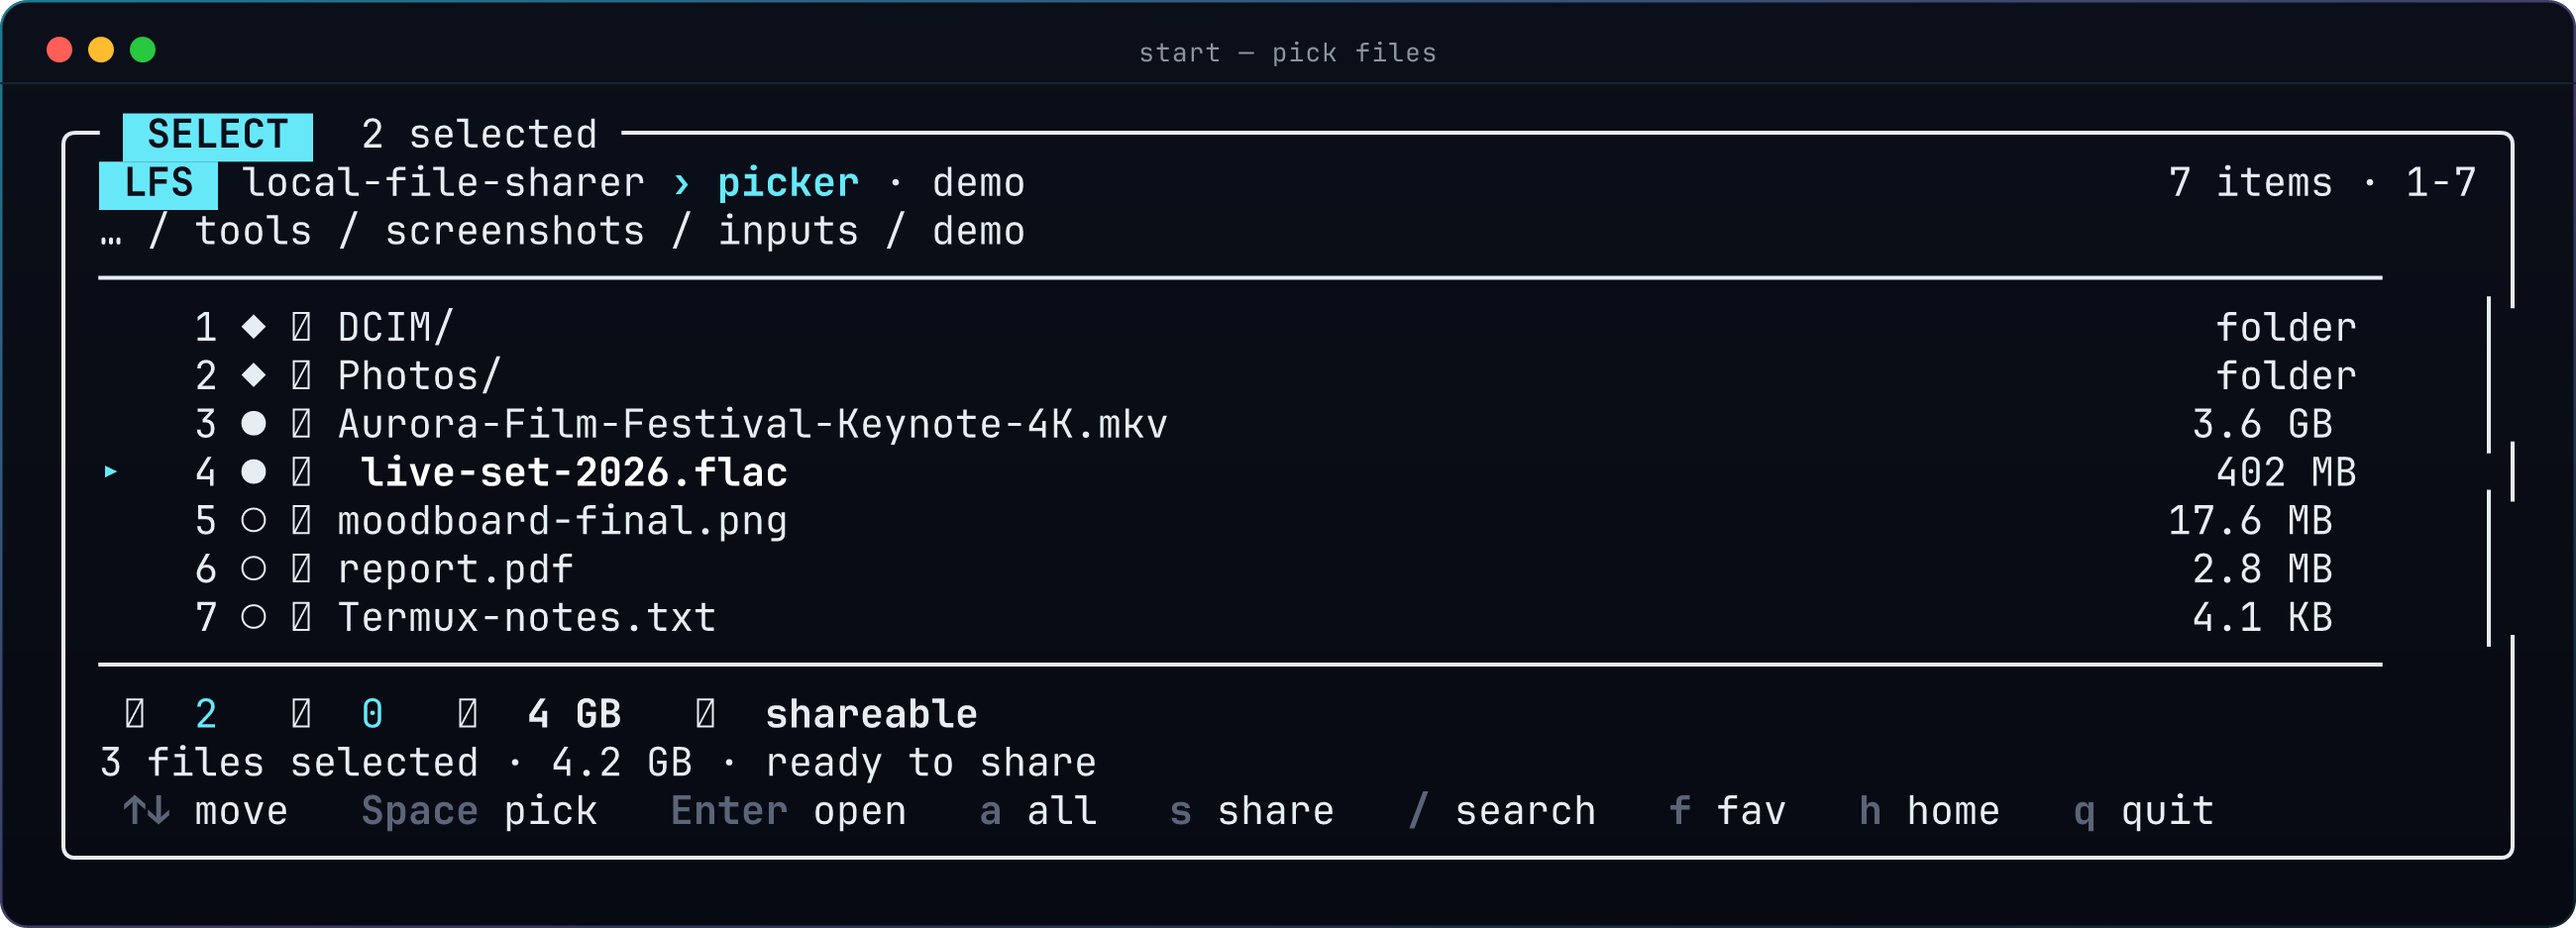
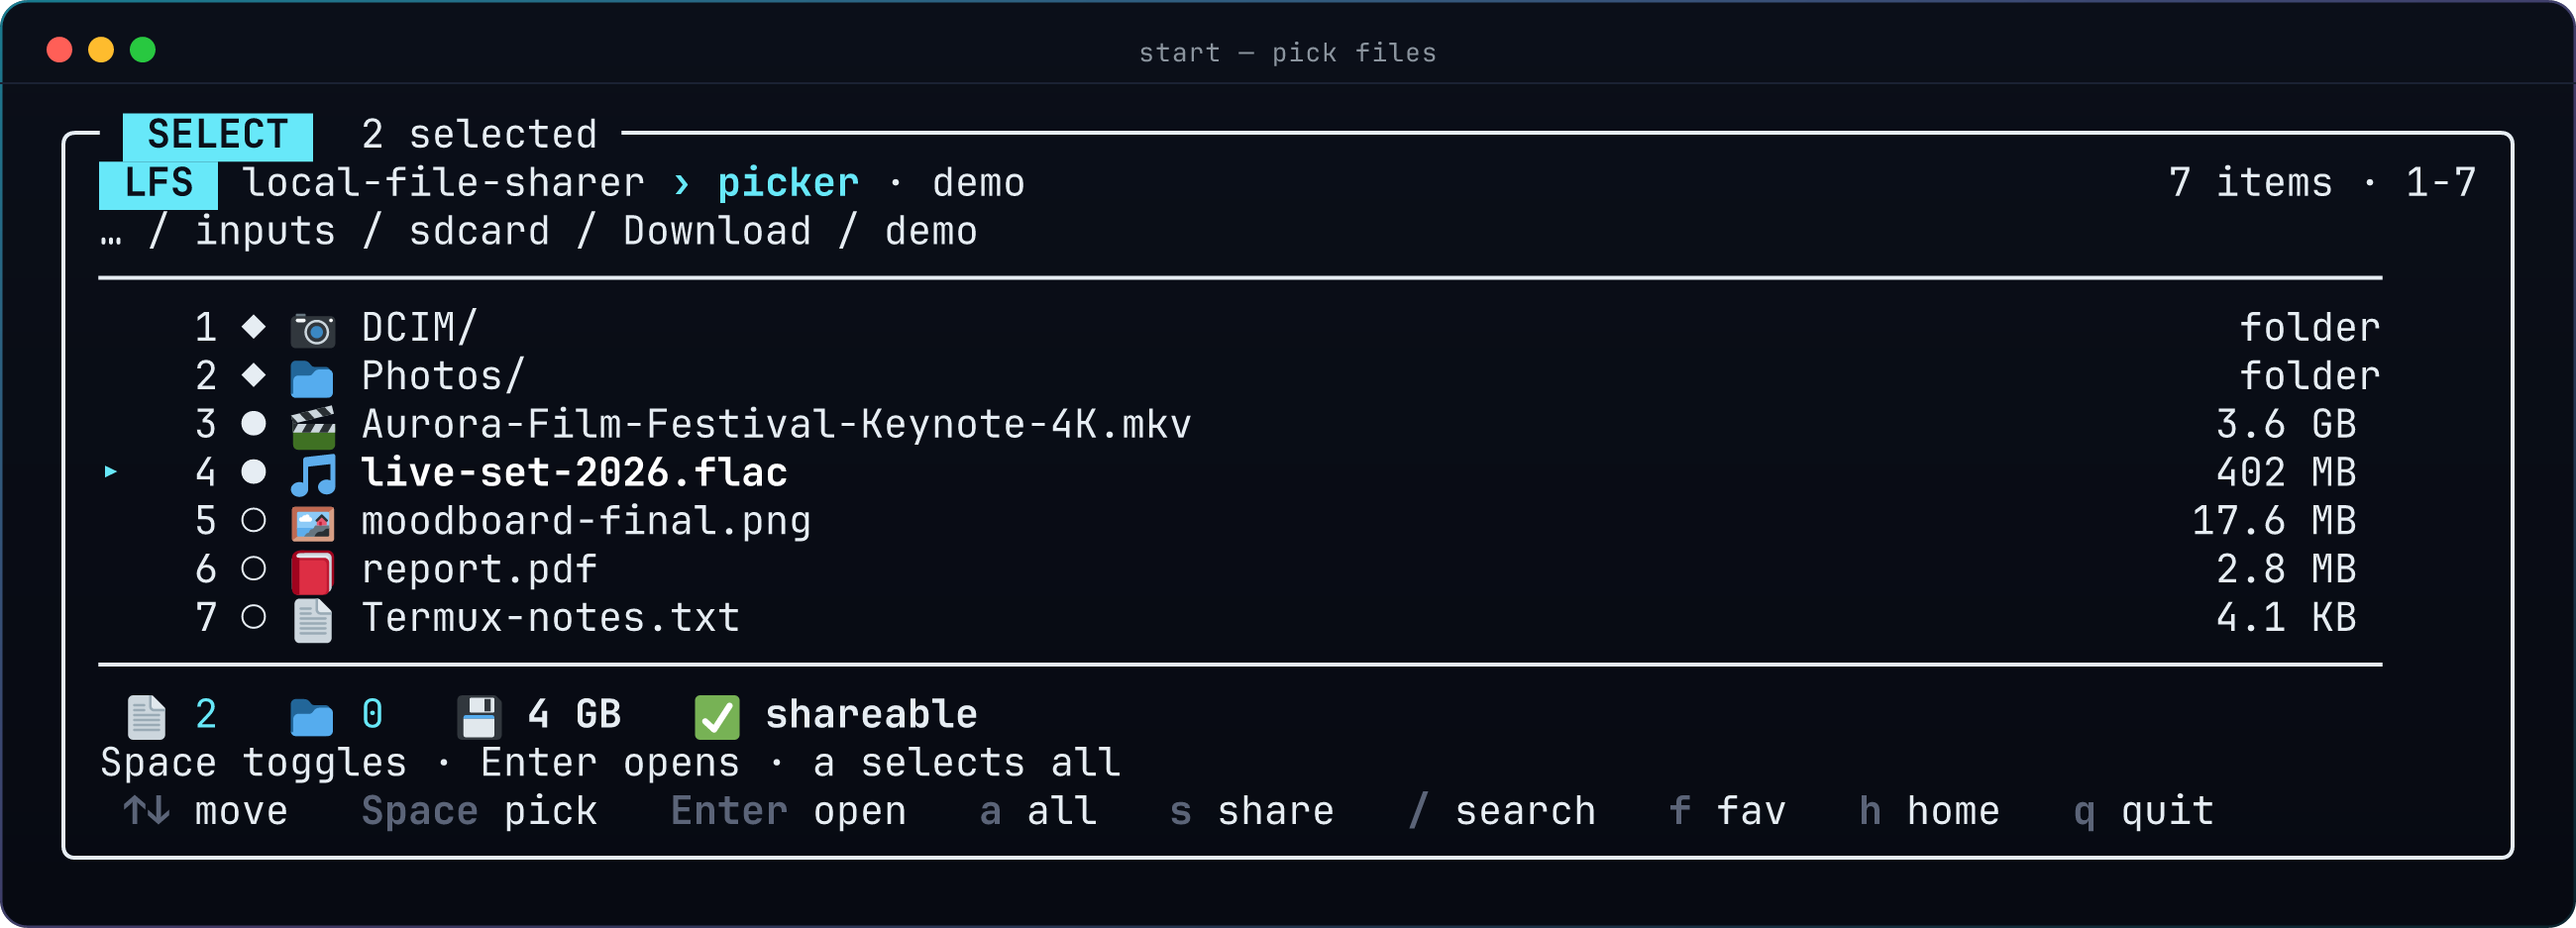
fix(docs): every screenshot shipped with tofu emoji, and the picker leaked a sandbox path
Found by looking at the committed PNGs instead of the code:

- Twemoji inputs were one directory too deep (inputs/twemoji/svg/*.svg), so
  _twemoji() returned None for every glyph and to_svg fell back to a box.
  Icons in the menu, picker, dashboard and banner were all boxes.
- termsvg now warns to stderr when a glyph has no SVG, so this cannot be
  silent again; tools/screenshots/check_assets.py is the CI gate.
- the picker breadcrumb read '… / tools / screenshots / inputs / demo' — the
  demo tree now lives under inputs/sdcard/Download/demo (sparse files, 4 KB on
  disk) so it reads like a phone.
- the picker's hand-written message said '3 files selected' while the live
  summary said 2; it now carries a real key hint instead of a fake total.

tests/test_screenshots.py locks both: warn-once-per-glyph, and to_svg's cols
padding (uneven GIF frames were the other silent corruption).

diff --git a/tools/screenshots/check_assets.py b/tools/screenshots/check_assets.py
@@ -1,0 +1,111 @@
+#!/usr/bin/env python3
+"""Fail if a screenshot would ship with tofu boxes or a leaking path.
+
+Run after regenerating the PNGs (CI does). It reads *the committed images*, not
+the renderer's intentions, which is the only way to catch a silently missing
+Twemoji tree: `to_svg` happily emits a fallback glyph instead of raising.
+"""
+
+from __future__ import annotations
+
+import re
+import subprocess
+import sys
+from pathlib import Path
+
+REPO = Path(__file__).resolve().parents[2]
+ASSETS = REPO / "docs" / "assets"
+README = REPO / "README.md"
+
+#: A path component that must never appear in a screenshot.
+FORBIDDEN = ("/home/", "C:\\Users", "scratch", "inputs/sdcard")
+
+
+def referenced_images() -> dict[str, bool]:
+    """README image links as ``{name: exists}``."""
+    text = README.read_text(encoding="utf-8")
+    # The README uses HTML <img> tags for width control; accept Markdown too.
+    refs = re.findall(r"<img[^>]*\ssrc=[\"'](?:\./)?docs/assets/([^\"'\s]+)", text)
+    refs += re.findall(r"!\[[^\]]*\]\((?!https?:)(?:\./)?docs/assets/([^)\s]+)", text)
+    return {name: (ASSETS / name).exists() for name in dict.fromkeys(refs)}
+
+
+def image_problems() -> list[str]:
+    problems: list[str] = []
+    for name, exists in referenced_images().items():
+        if not exists:
+            problems.append(f"README references docs/assets/{name}, which does not exist")
+    for path in sorted(ASSETS.glob("*.png")):
+        if path.stat().st_size < 1000:
+            problems.append(f"{path.name} is suspiciously small ({path.stat().st_size} bytes)")
+    return problems
+
+
+def png_text() -> str:
+    """All text that a PNG asset could have baked into it.
+
+    PNGs here are rendered from SVG, so the strings live in the image, not in a
+    sidecar file — this only checks the file names and the README instead.
+    """
+    return "\n".join(path.name for path in ASSETS.iterdir())
+
+
+def git_tracked_assets() -> list[str]:
+    try:
+        out = subprocess.run(
+            ["git", "ls-files", "docs/assets"],
+            cwd=REPO,
+            capture_output=True,
+            text=True,
+            check=False,
+        ).stdout
+    except OSError:  # pragma: no cover - git is optional
+        return []
+    return [line for line in out.splitlines() if line]
+
+
+def uncovered_emoji() -> list[str]:
+    """Emoji used by the terminal shots that Twemoji cannot draw.
+
+    This is the cheap version of looking at the PNG: the renderer substitutes a
+    fallback glyph and says nothing, so the only way to notice is to ask the
+    same lookup the renderer asks.
+    """
+    for extra in (REPO / "src", REPO / "tools" / "screenshots"):
+        if str(extra) not in sys.path:
+            sys.path.insert(0, str(extra))
+    import termsvg  # noqa: PLC0415 - optional maintainer tool
+
+    from local_file_sharer.menu import ACTIONS  # noqa: PLC0415
+
+    glyphs: set[str] = {"\U0001f4bb", "\U0001f4f1", "\U0001f680", "\u2705", "\u26a0"}
+    for action in ACTIONS:
+        glyphs.update(ch for ch in str(getattr(action, "icon", "")) if ord(ch) > 0x2000)
+
+    return sorted(ch for ch in glyphs if termsvg._twemoji(ch) is None)
+
+
+def main() -> int:
+    problems = image_problems()
+    for needle in FORBIDDEN:
+        if needle in png_text():
+            problems.append(f"a docs/assets file name contains {needle!r}")
+    untracked = set(referenced_images()) - {Path(p).name for p in git_tracked_assets()}
+    if git_tracked_assets():
+        for name in sorted(untracked):
+            problems.append(f"docs/assets/{name} is referenced but not committed")
+
+    for glyph in uncovered_emoji():
+        problems.append(f"no Twemoji SVG for {glyph!r} — it would render as tofu")
+
+    for problem in problems:
+        print(f"✖ {problem}")
+    if problems:
+        return 1
+    count = len(referenced_images())
+    print(f"✓ {count} README images all present and committed")
+    return 0
+
+
+if __name__ == "__main__":
+    sys.exit(main())

diff --git a/tests/test_screenshots.py b/tests/test_screenshots.py
@@ -1,0 +1,98 @@
+"""Guards for the screenshot renderer's two silent-failure modes.
+
+Both were found by looking at the committed PNGs rather than at the code, so
+they get tests. The renderer is a maintainer tool, not part of the package —
+these tests skip cleanly if ``tools/screenshots`` is absent.
+"""
+
+from __future__ import annotations
+
+import importlib.util
+import sys
+from pathlib import Path
+
+import pytest
+
+REPO = Path(__file__).resolve().parents[1]
+TOOLS = REPO / "tools" / "screenshots"
+
+pytest.importorskip("rich")
+
+if not (TOOLS / "termsvg.py").exists():  # pragma: no cover - tool is optional
+    pytest.skip("screenshot toolchain not present", allow_module_level=True)
+
+
+def _load(name: str):
+    """Import a tool module without putting ``tools/screenshots`` on sys.path."""
+    if str(TOOLS) not in sys.path:
+        sys.path.insert(0, str(TOOLS))
+    spec = importlib.util.spec_from_file_location(f"_shots_{name}", TOOLS / f"{name}.py")
+    module = importlib.util.module_from_spec(spec)
+    # dataclasses look the module up in sys.modules while decorating, so register
+    # it before executing or the @dataclass in termsvg.py blows up.
+    sys.modules[spec.name] = module
+    spec.loader.exec_module(module)
+    return module
+
+
+termsvg = _load("termsvg")
+
+
+def test_missing_twemoji_is_reported_not_swallowed(monkeypatch, tmp_path, capsys):
+    """An emoji with no SVG must warn once, or shots silently grow tofu boxes."""
+    monkeypatch.setattr(termsvg, "TWEMOJI", tmp_path)
+    monkeypatch.setattr(termsvg, "_MISSING_EMOJI", set())
+
+    assert termsvg._twemoji("🤖") is None
+    assert termsvg._twemoji("🤖") is None
+
+    err = capsys.readouterr().err
+    assert err.count("no Twemoji SVG") == 1, "warn once per glyph, not once per row"
+    assert "🤖" in err or "1f916" in err
+
+
+def test_twemoji_is_found_when_the_directory_is_right(monkeypatch):
+    """The happy path: a real lookup must return markup, not None."""
+    twemoji = Path(termsvg.TWEMOJI)
+    if not (twemoji / "1f916.svg").exists():
+        pytest.skip("Twemoji inputs are not installed (LFS_SHOT_INPUTS)")
+
+    markup = termsvg._twemoji("🤖")
+    assert markup is not None
+    assert "svg" not in markup.split()[0] if markup.split() else True
+    assert "<path" in markup or "<g" in markup
+
+
+def test_twemoji_ignores_ascii():
+    assert termsvg._twemoji("A") is None
+    assert termsvg._twemoji("") is None
+
+
+def test_to_svg_pads_every_row_to_cols():
+    """Without ``cols`` each frame sized itself, so GIF frames came out different
+    widths — a corruption that only shows up in the animation."""
+    rows = [
+        [termsvg.Cell("a", "#fff", None, False, False)],
+        [termsvg.Cell("b", "#fff", None, False, False)] * 5,
+    ]
+    svg_narrow = termsvg.to_svg(rows, title="t", chrome=False)
+    svg_padded = termsvg.to_svg(rows, title="t", chrome=False, cols=8)
+
+    def width_of(svg: str) -> float:
+        import re
+
+        return float(re.search(r'<svg[^>]*width="([\d.]+)"', svg).group(1))
+
+    assert width_of(svg_padded) > width_of(svg_narrow)
+
+    # Two different shapes must still produce the same canvas when cols is fixed.
+    other = [[termsvg.Cell("c", "#fff", None, False, False)] * 3]
+    assert width_of(termsvg.to_svg(other, title="t", chrome=False, cols=8)) == width_of(svg_padded)
+
+
+def test_grid_measures_every_glyph_as_at_least_one_cell():
+    from rich.text import Text
+
+    rows = termsvg.to_grid(Text("a\u200bb界"), width=8)
+    assert all(cell.width >= 1 for row in rows for cell in row)
+    assert "".join(c.char for c in rows[0]).startswith("a")

diff --git a/tools/screenshots/cli_shots.py b/tools/screenshots/cli_shots.py
@@ -14,7 +14,7 @@ from rich.text import Text
 
 sys.path.insert(0, str(Path(__file__).resolve().parent))
 
-from paths import ASSETS, DEMO_DIR, INPUTS  # noqa: E402
+from paths import ASSETS, DEMO_PICKER, INPUTS  # noqa: E402
 from termsvg import svg_to_png, to_grid, to_svg  # noqa: E402
 
 from local_file_sharer import (  # noqa: E402
@@ -29,7 +29,6 @@ from local_file_sharer.ui.console import panel, set_console, set_theme  # noqa: 
 from local_file_sharer.ui.theme import build_theme  # noqa: E402
 
 ASSETS = ASSETS
-DEMO = DEMO_DIR
 WIDTH = 104
 HEIGHT = 44
 
@@ -95,7 +94,10 @@ def main() -> None:
     shot(menu.render_menu(ctx), "cli-menu", title="start")
 
     # ── 3. picker ───────────────────────────────────────────────────────────
-    picker = picker_ui.PickerState(cwd=DEMO, page_size=12)
+    # Show the demo tree as it would look on a phone. The breadcrumb keeps the
+    # last four path components, so this is only cosmetic — no file named
+    # /sdcard ever has to exist.
+    picker = picker_ui.PickerState(cwd=DEMO_PICKER, page_size=12)
     picker.reload()
     for entry in picker.visible():
         if entry.name in ("Aurora-Film-Festival-Keynote-4K.mkv", "live-set-2026.flac"):
@@ -104,7 +106,7 @@ def main() -> None:
     for index, entry in enumerate(picker.visible()):
         if entry.name == "live-set-2026.flac":
             picker.cursor = index
-    picker.message = "3 files selected · 4.2 GB · ready to share"
+    picker.message = "Space toggles · Enter opens · a selects all"
     shot(picker_ui.render(picker, width=WIDTH - 2, height=40), "cli-picker", title="start — pick files")
 
     # ── 4. dashboard ────────────────────────────────────────────────────────

diff --git a/tools/screenshots/termsvg.py b/tools/screenshots/termsvg.py
@@ -9,6 +9,7 @@ from __future__ import annotations
 
 import io
 import re
+import sys
 from dataclasses import dataclass
 from pathlib import Path
 
@@ -162,6 +163,9 @@ def _is_emoji(char: str) -> bool:
     return not _in_mono(char)
 
 
+_MISSING_EMOJI: set[str] = set()
+
+
 def _twemoji(char: str) -> str | None:
     base = char.rstrip("\ufe0f").replace("\u200d", "-")
     if not base or (base.isascii() and len(base) == 1):
@@ -175,6 +179,15 @@ def _twemoji(char: str) -> str | None:
         code = "-".join(f"{ord(c):x}" for c in base if c not in "\ufe0f")
         path = TWEMOJI / f"{code}.svg"
         if not path.exists():
+            # Recorded once per glyph so a bad TWEMOJI_DIR shows up in the run
+            # output instead of quietly rendering every emoji as a tofu box.
+            if char not in _MISSING_EMOJI:
+                _MISSING_EMOJI.add(char)
+                print(
+                    f"warning: no Twemoji SVG for {char!r} ({code}) in {TWEMOJI} — "
+                    "it will render as a fallback glyph",
+                    file=sys.stderr,
+                )
             return None
     body = path.read_text(encoding="utf-8")
     body = re.sub(r"<\?xml[^>]*\?>", "", body)

diff --git a/tests/test_platforms.py b/tests/test_platforms.py
@@ -201,7 +201,9 @@ def test_firewall_hint_posix_offers_ufw(monkeypatch):
 # ── tool discovery ──────────────────────────────────────────────────────────
 def test_find_tool_prefers_path(monkeypatch):
     monkeypatch.setattr(platforms, "WINDOWS", False)
-    monkeypatch.setattr(platforms.shutil, "which", lambda name: "/usr/bin/ffmpeg" if name == "ffmpeg" else None)
+    monkeypatch.setattr(
+        platforms.shutil, "which", lambda name: "/usr/bin/ffmpeg" if name == "ffmpeg" else None
+    )
     assert platforms.find_tool("ffmpeg") == "/usr/bin/ffmpeg"
 
 
@@ -289,7 +291,9 @@ def test_downloads_dir_is_a_path():
 
 def test_primary_local_ip_returns_none_or_dotted_quad(monkeypatch):
     monkeypatch.setattr(platforms.socket, "gethostname", lambda: "box")
-    monkeypatch.setattr(platforms.socket, "gethostbyname_ex", lambda name: (_ for _ in ()).throw(OSError("nope")))
+    monkeypatch.setattr(
+        platforms.socket, "gethostbyname_ex", lambda name: (_ for _ in ()).throw(OSError("nope"))
+    )
     ip = platforms.primary_local_ip()
     assert ip is None or ip.count(".") == 3
 

diff --git a/tools/screenshots/paths.py b/tools/screenshots/paths.py
@@ -23,7 +23,11 @@ ASSETS = REPO / "docs" / "assets"
 INPUTS = Path(os.environ.get("LFS_SHOT_INPUTS", REPO / "tools" / "screenshots" / "inputs"))
 FONT_DIR = INPUTS / "fonts"
 TWEMOJI_DIR = INPUTS / "twemoji"
-DEMO_DIR = INPUTS / "demo"
+DEMO_DIR = INPUTS / "sdcard"
+#: Where the picker screenshot opens. On a real phone this is the Termux layout
+#: ``/sdcard/Download/demo``; locally it is the same shape under ``inputs/`` so
+#: the breadcrumb does not leak this checkout's absolute path.
+DEMO_PICKER = DEMO_DIR / "Download" / "demo"
 
 
 def font(name: str) -> str:

diff --git a/tools/screenshots/README.md b/tools/screenshots/README.md
@@ -66,12 +66,14 @@ PYTHONPATH=src python tools/screenshots/hero.py         # docs/assets/banner.png
 PYTHONPATH=src python tools/screenshots/demo_gif.py     # docs/assets/demo.gif
 ```
 
-`cli_shots.py` and `webgen.py` expect the demo tree used in the pictures:
+`cli_shots.py` and `webgen.py` expect the demo tree used in the pictures. It
+lives under `sdcard/Download/demo` so the picker breadcrumb reads like the
+Termux layout instead of this checkout's absolute path:
 
 ```bash
 python - <<'PY'
 import pathlib
-root = pathlib.Path("tools/screenshots/inputs/demo")
+root = pathlib.Path("tools/screenshots/inputs/sdcard/Download/demo")
 for rel, size in {
     "Aurora-Film-Festival-Keynote-4K.mkv": 3_842_119_680,
     "live-set-2026.flac": 421_003_264,
@@ -88,6 +90,18 @@ for rel, size in {
         handle.truncate(size)          # sparse files: instant, no disk cost
 PY
 ```
+
+## Before you commit a screenshot
+
+```bash
+PYTHONPATH=src python tools/screenshots/check_assets.py
+```
+
+It fails if a README image is missing from `docs/assets/`, if a referenced
+image is untracked, or if any emoji used by the terminal shots has no Twemoji
+SVG — which is how a whole set of screenshots once shipped with tofu boxes
+while `to_svg` printed nothing at all. `to_svg` now warns too, but the checker
+is what CI runs.
 
 ## Conventions in the pictures
 
